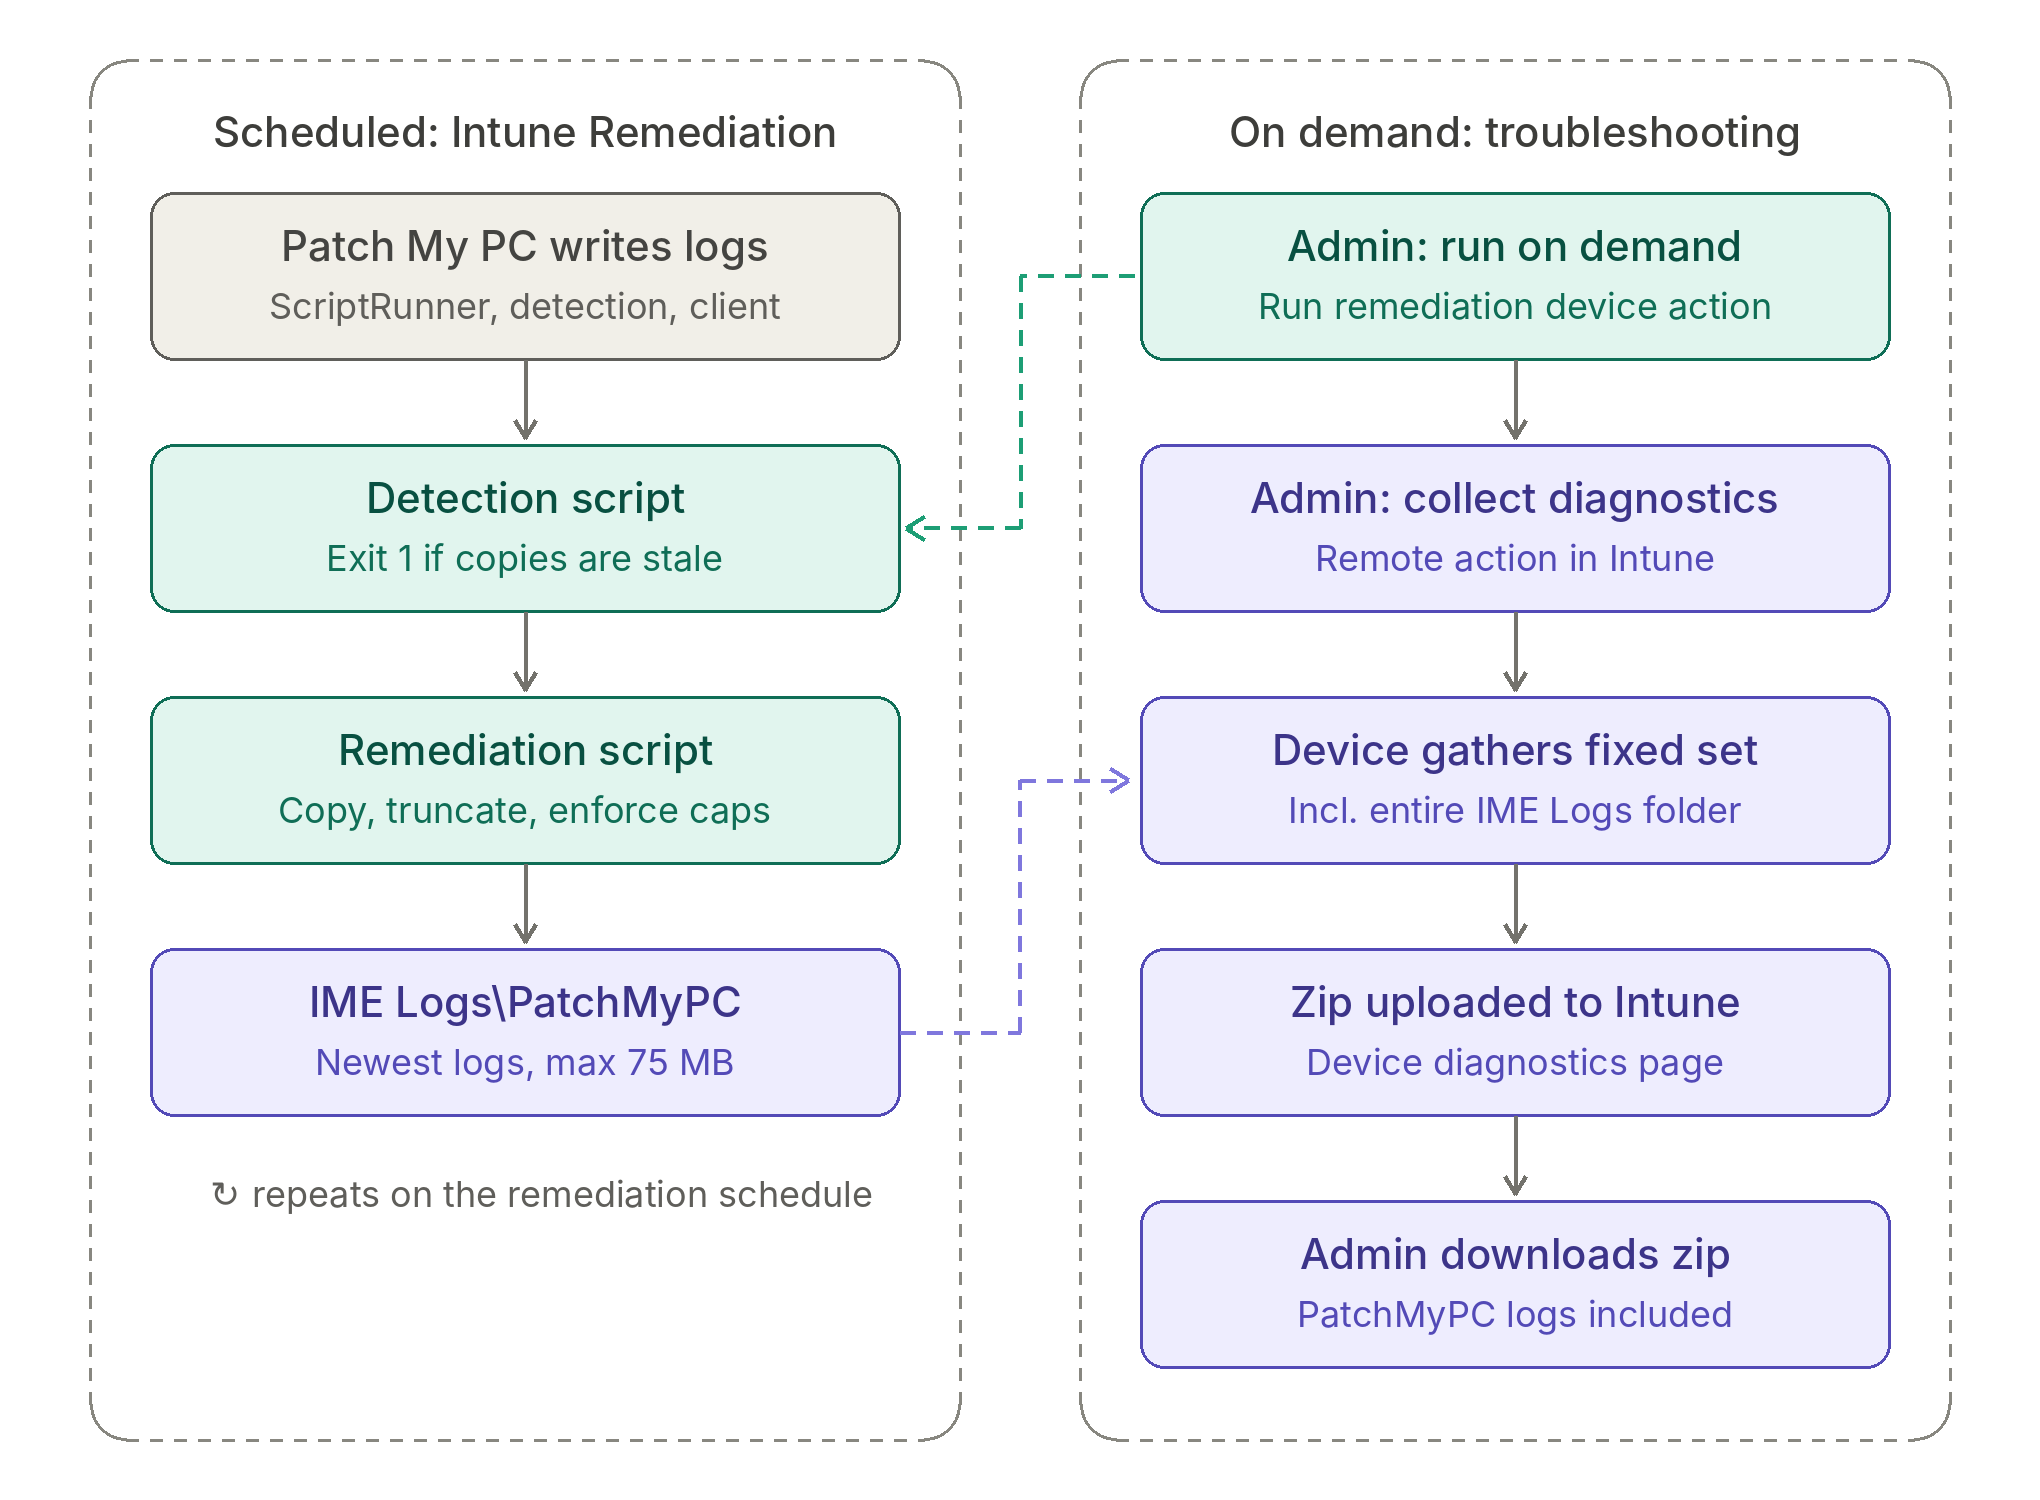
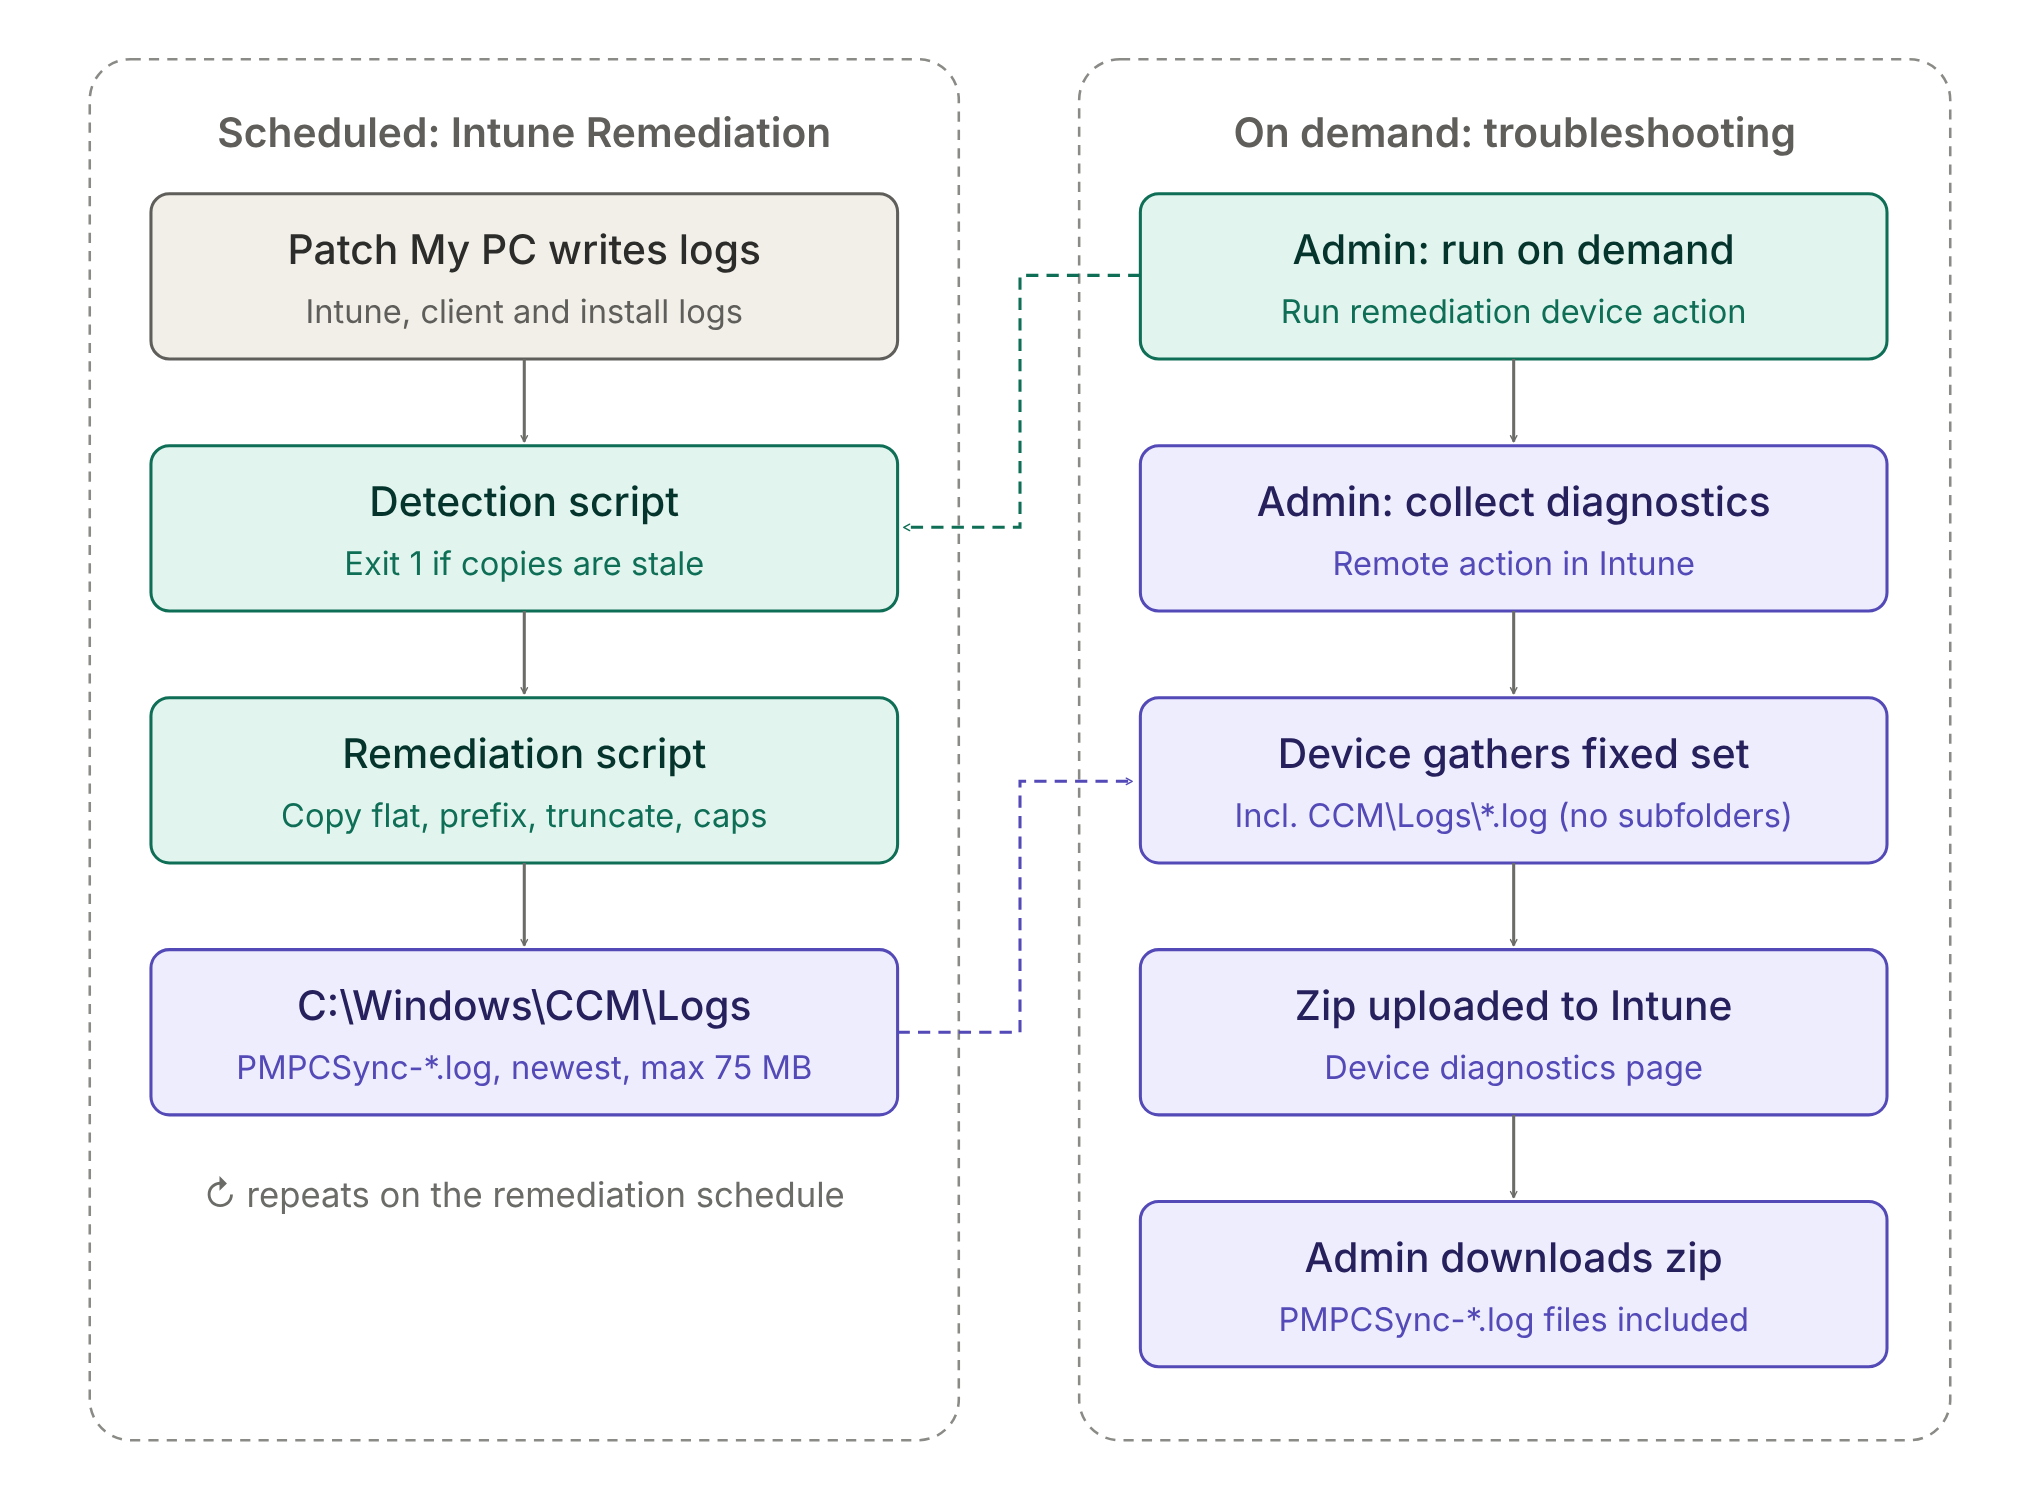
Update flow picture and add file naming picture for CCM\Logs

diff --git a/README.md b/README.md
@@ -25,7 +25,7 @@ Earlier versions of these scripts mirrored the logs to `IME\Logs\PatchMyPC\<sour
 
 ## How it works
 
-![Flow of the Patch My PC log sync: a scheduled Intune Remediation mirrors the logs to a log folder, and an on-demand Collect diagnostics action includes them in the diagnostics zip](pmpc-log-sync-flow.png)
+![Flow of the Patch My PC log sync: a scheduled Intune Remediation copies the logs flat into C:\Windows\CCM\Logs as PMPCSync-*.log, and an on-demand Collect diagnostics action includes them in the diagnostics zip](pmpc-log-sync-flow.png)
 
 ## What it does
 
@@ -48,6 +48,8 @@ Earlier versions of these scripts mirrored the logs to `IME\Logs\PatchMyPC\<sour
 - Removes the old mirror folder `C:\ProgramData\Microsoft\IntuneManagementExtension\Logs\PatchMyPC` used by earlier versions.
 
 ## File naming
+
+![How source logs are named in C:\Windows\CCM\Logs: PMPCSync, the source name and the relative path, ending in .log](pmpc-log-sync-naming.png)
 
 Every copy is stored as `<FilePrefix>-<source name>-<relative path>.log`:
 
@@ -144,6 +146,10 @@ Copied: 12 | Failed: 0 | Removed: 3 | Mirror: C:\Windows\CCM\Logs
 ## Collecting the logs
 
 In the Intune admin center, select the device and run **Collect diagnostics**. The Patch My PC logs are included in the diagnostics zip with the other CCM logs, as the `PMPCSync-*.log` files.
+
+## Pictures
+
+The pictures are `pmpc-log-sync-flow.png` and `pmpc-log-sync-naming.png` (transparent background, so they work on light and dark pages). The `.svg` files next to them are the editable sources; they use the Inter font.
 
 ## License
 
